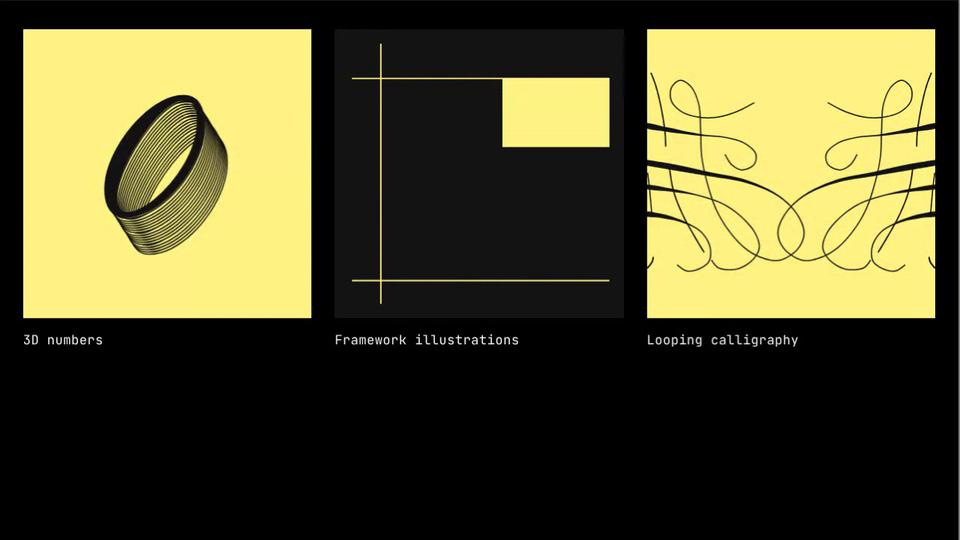
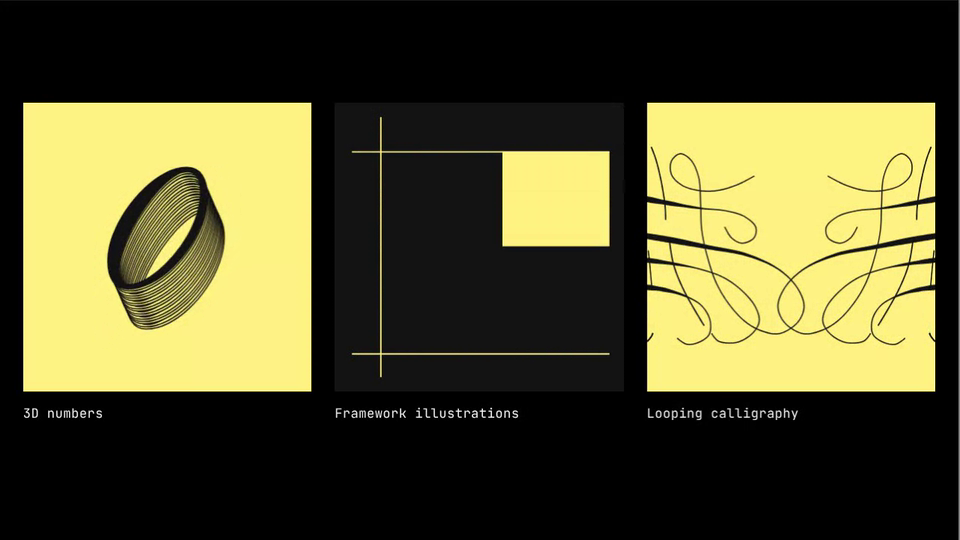
Thread Brand Visuals: centre the grid, re-record clip
Claude-Session: https://claude.ai/code/session_01AHeBdwuVQfGxyT5fqm7GP3

Changed region(s): [[0.0, 0.0296, 1.0, 0.8], [0.375, 0.5037, 0.625, 0.5333], [0.3438, 0.7407, 0.5312, 0.7704]]

diff --git a/thread-brand-visuals/index.html b/thread-brand-visuals/index.html
@@ -10,14 +10,14 @@
 :root{--yellow:#fff383;--ink:#141414;--cream:#faf4de}
 *{box-sizing:border-box;margin:0}
 html,body{background:#000;color:#f2f2f2}
-body{min-height:100vh;font:400 16px/1.4 "Inter","Helvetica Neue",Helvetica,Arial,sans-serif;-webkit-font-smoothing:antialiased}
+body{min-height:100vh;display:flex;flex-direction:column;font:400 16px/1.4 "Inter","Helvetica Neue",Helvetica,Arial,sans-serif;-webkit-font-smoothing:antialiased}
 nav.back{box-sizing:border-box;display:flex;align-items:center;gap:8px;height:49px;padding:0 20px;background:#000;border-bottom:1px solid #1c1c1c;font:400 13px/1.35 "Inter","Helvetica Neue",Helvetica,Arial,sans-serif}
 nav.back a{color:#8d8d8d;text-decoration:none}
 nav.back a:hover,nav.back a:focus-visible{color:#fff;text-decoration:underline;text-underline-offset:3px}
 nav.back span{color:#6e6e6e}
 nav.back b{font-weight:500;color:#fff;overflow:hidden;text-overflow:ellipsis}
-main{max-width:1760px;margin:0 auto;padding:clamp(20px,3vw,40px) clamp(16px,2.4vw,34px) 60px}
-.grid{display:grid;grid-template-columns:repeat(3,1fr);gap:clamp(16px,2.4vw,40px)}
+main{flex:1;display:flex;align-items:center;width:100%;max-width:1760px;margin:0 auto;padding:clamp(20px,3vw,40px) clamp(16px,2.4vw,34px) 60px}
+.grid{width:100%;display:grid;grid-template-columns:repeat(3,1fr);gap:clamp(16px,2.4vw,40px)}
 figure{display:block}
 figure canvas{display:block;width:100%;height:auto;aspect-ratio:1/1;background:var(--ink)}
 figcaption{margin-top:18px;font:400 clamp(14px,1.35vw,20px)/1.3 "JetBrains Mono",ui-monospace,Menlo,Consolas,monospace;letter-spacing:.02em;color:#f2f2f2}
